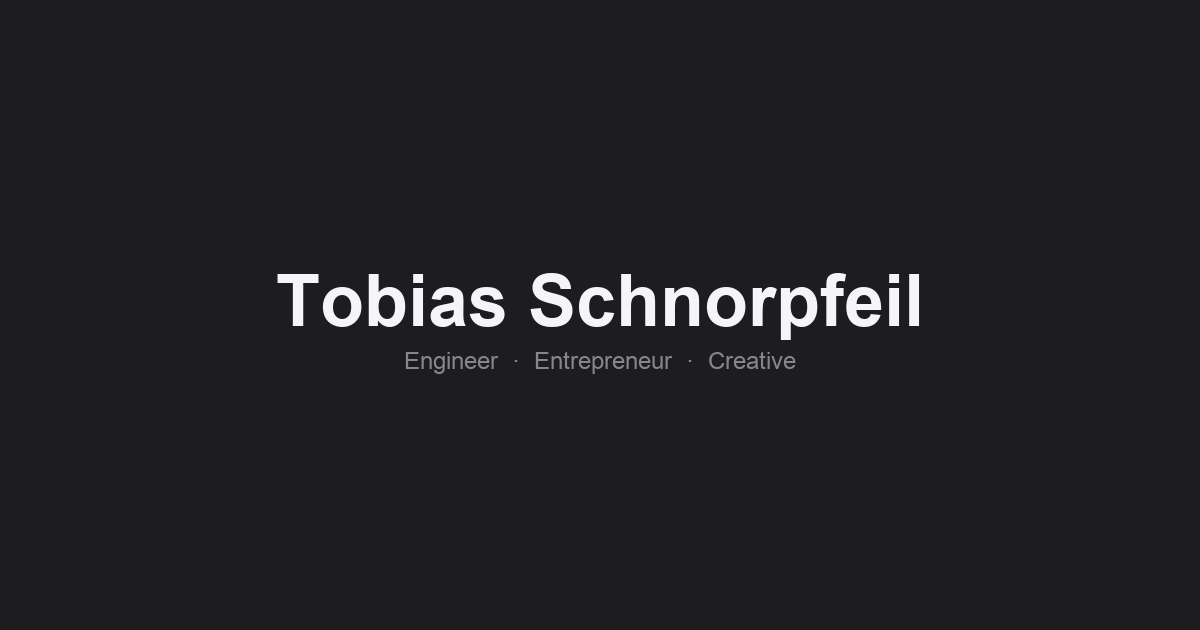
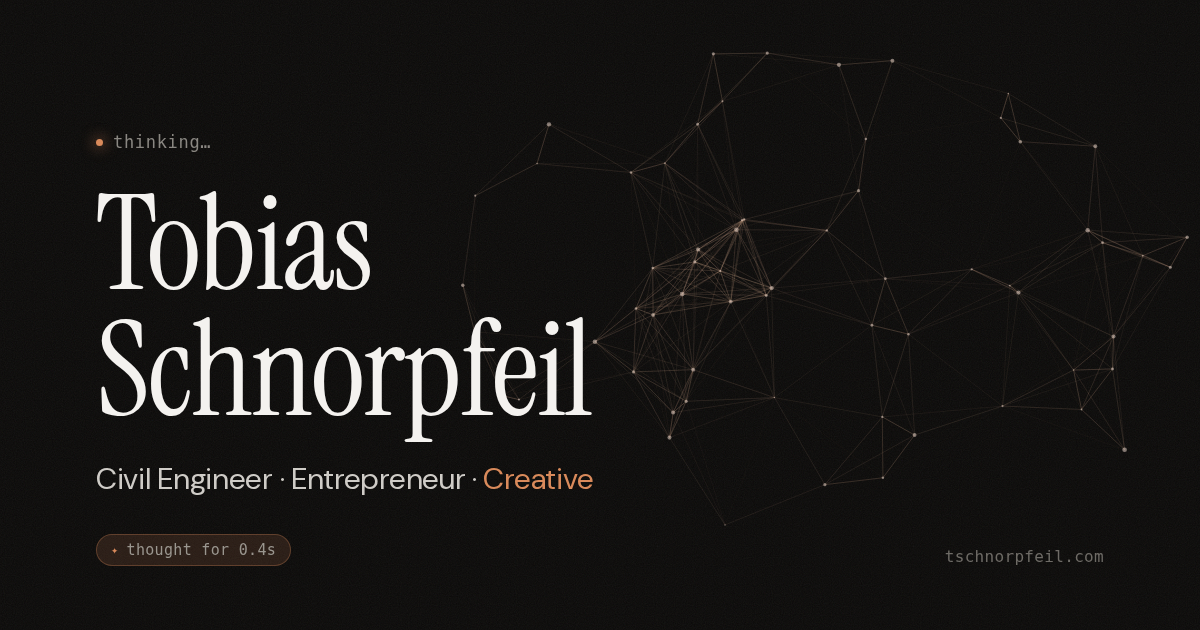
polish: refreshed OG share image (new "Develop" look) + field intensity tuning
- New 1200×630 Open Graph / Twitter card rendered on-brand: warm near-black, the
  serif wordmark, the "thinking…" pip, the role line with the ember accent, a
  "thought for 0.4s" receipt, and the latent attention-field constellation —
  reflecting the redesign instead of the old card.
- Latent field tuned for elegance: fainter rest, gentler convergence (less
  clumping), longer/finer threads, and a softer peak opacity — more atmospheric,
  less "busy graph", while still filling the thinking frames.

https://claude.ai/code/session_012gomdk1iSFwa4PMkhqzjFK

diff --git a/index.html b/index.html
@@ -2290,8 +2290,8 @@
             var ctx = canvas.getContext('2d');
             var dpr = Math.min(window.devicePixelRatio || 1, 2);
             var W = 0, H = 0, pts = [], N = 0, ink = { r: 29, g: 29, b: 31 };
-            var intensity = 0.0, target = 0.08, pulseUntil = 0, raf = null, visible = true;
-            var IDLE = 0.08;
+            var intensity = 0.0, target = 0.07, pulseUntil = 0, raf = null, visible = true;
+            var IDLE = 0.07;
 
             function recolor() {
                 var c = getComputedStyle(document.documentElement).getPropertyValue('--text').trim() || '#1d1d1f';
@@ -2318,7 +2318,7 @@
                 var t = (now < pulseUntil) ? 1 : target;
                 intensity += (t - intensity) * 0.045;
                 ctx.clearRect(0, 0, W, H);
-                var cx = W * 0.5, cy = H * 0.45, pull = Math.max(0, intensity - IDLE) * 0.00007;
+                var cx = W * 0.5, cy = H * 0.45, pull = Math.max(0, intensity - IDLE) * 0.00005;
                 for (var i = 0; i < N; i++) {
                     var p = pts[i];
                     p.vx += (cx - p.x) * pull; p.vy += (cy - p.y) * pull;
@@ -2326,11 +2326,11 @@
                     if (p.x < -10) p.x += W + 20; if (p.x > W + 10) p.x -= W + 20;
                     if (p.y < -10) p.y += H + 20; if (p.y > H + 10) p.y -= H + 20;
                 }
-                var maxd = 132, r = ink.r, g = ink.g, b = ink.b;
+                var maxd = 145, r = ink.r, g = ink.g, b = ink.b;
                 for (var a = 0; a < N; a++) for (var c2 = a + 1; c2 < N; c2++) {
                     var dx = pts[a].x - pts[c2].x, dy = pts[a].y - pts[c2].y, d = Math.sqrt(dx * dx + dy * dy);
                     if (d < maxd) {
-                        var al = (1 - d / maxd) * 0.42 * intensity;
+                        var al = (1 - d / maxd) * 0.38 * intensity;
                         if (al > 0.003) {
                             ctx.strokeStyle = 'rgba(' + r + ',' + g + ',' + b + ',' + al.toFixed(3) + ')';
                             ctx.beginPath(); ctx.moveTo(pts[a].x, pts[a].y); ctx.lineTo(pts[c2].x, pts[c2].y); ctx.stroke();
@@ -2338,11 +2338,11 @@
                     }
                 }
                 for (var j = 0; j < N; j++) {
-                    var al2 = 0.22 + 0.5 * intensity;
+                    var al2 = 0.18 + 0.46 * intensity;
                     ctx.fillStyle = 'rgba(' + r + ',' + g + ',' + b + ',' + al2.toFixed(3) + ')';
                     ctx.beginPath(); ctx.arc(pts[j].x, pts[j].y, pts[j].r, 0, 6.2832); ctx.fill();
                 }
-                canvas.style.opacity = Math.min(0.42, intensity * 0.6).toFixed(3);
+                canvas.style.opacity = Math.min(0.36, intensity * 0.52).toFixed(3);
                 raf = visible ? requestAnimationFrame(step) : null;
             }
             function start() { if (!raf && visible) raf = requestAnimationFrame(step); }
